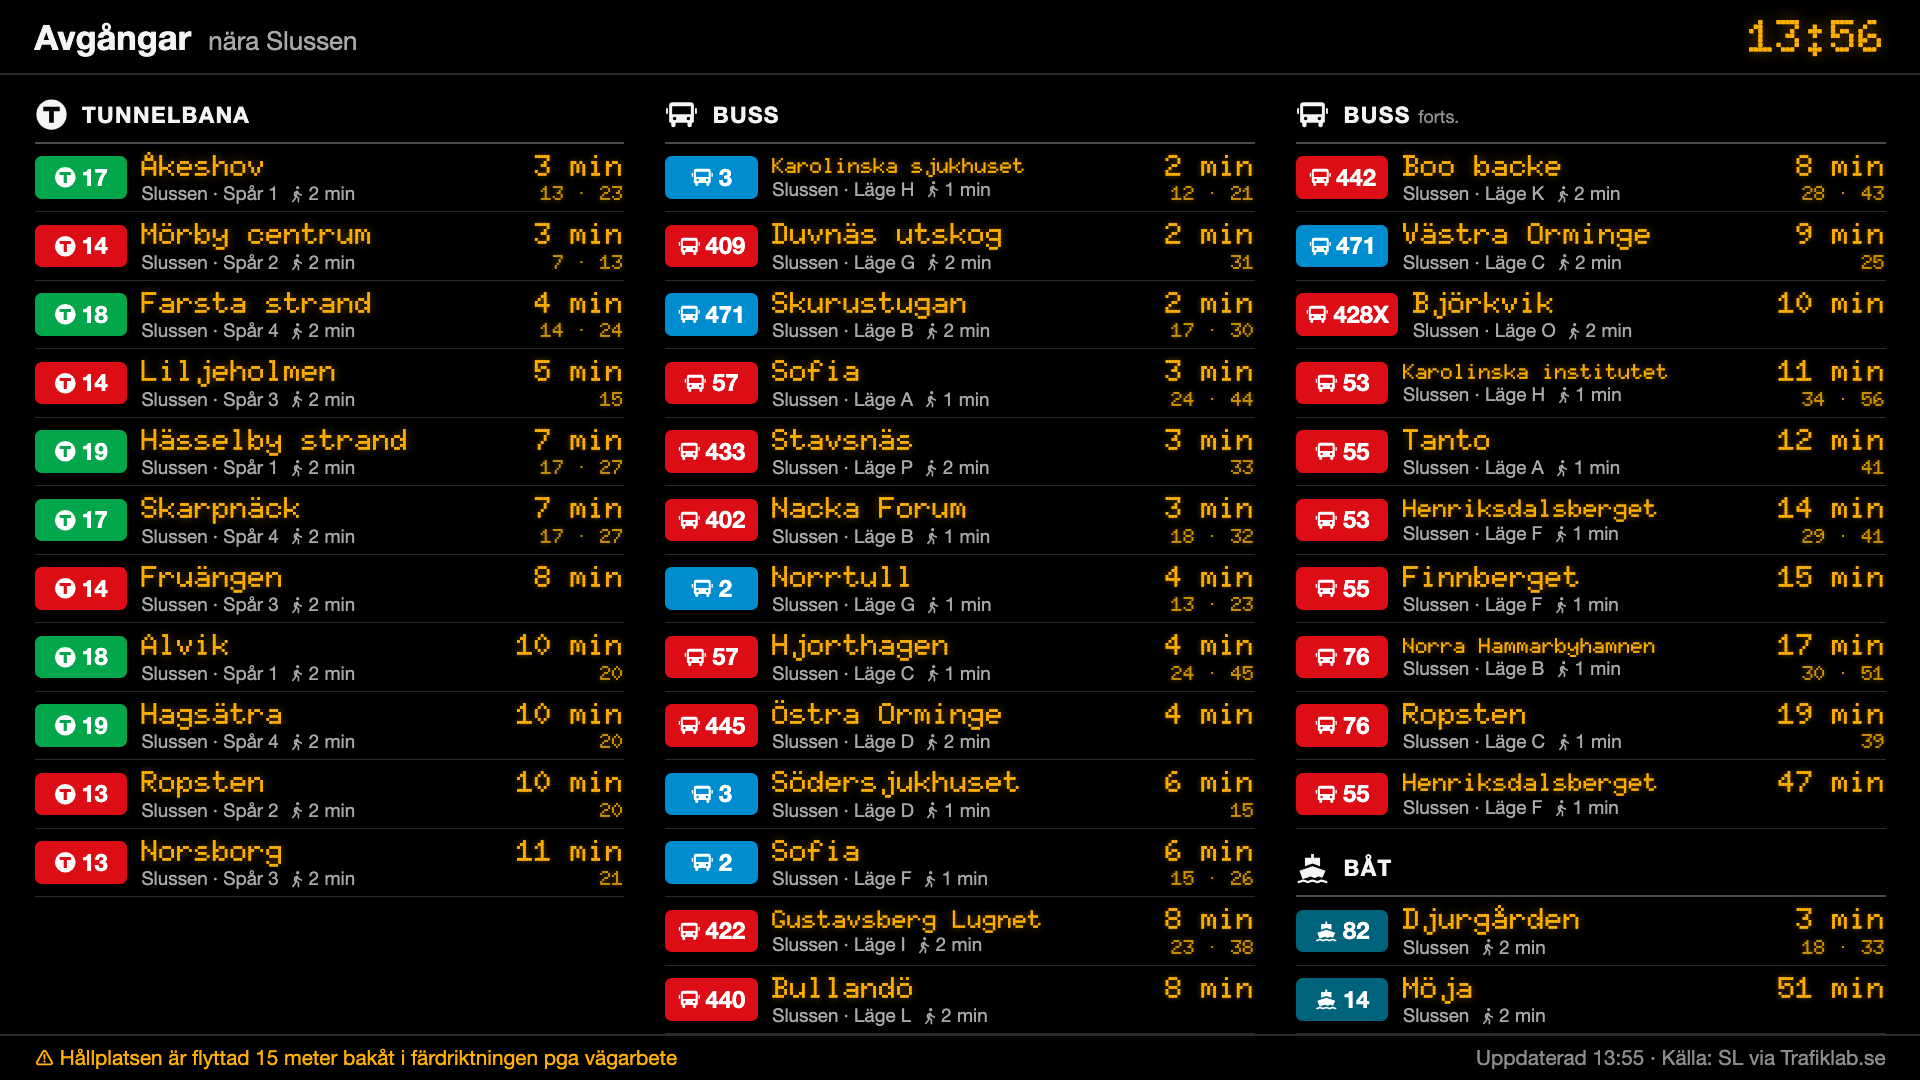
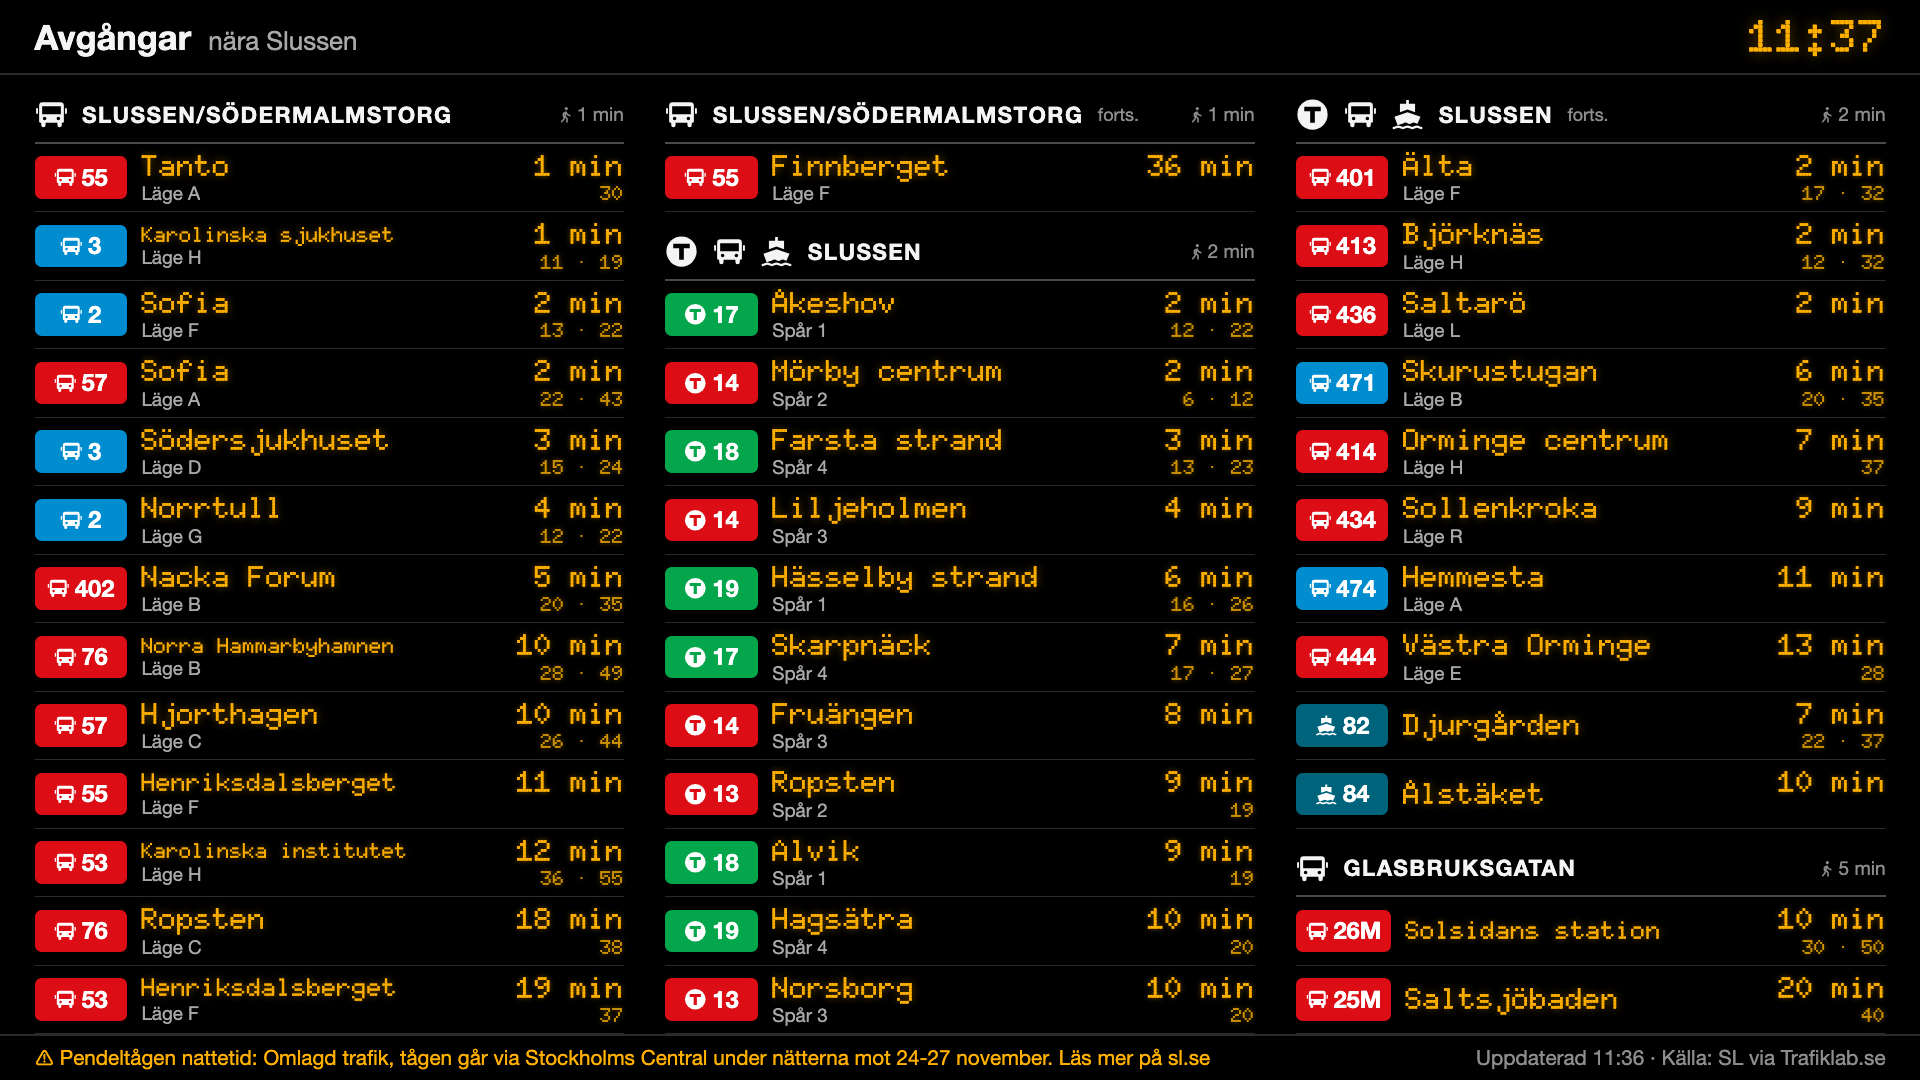
Group departures by stop by default
Each stop gets its own block, nearest first, with the stop name, the
transport types it serves and the walking time in the header, so rows
no longer repeat them. A new settings option, "Gruppera avgångar per
hållplats" (link parameter group=0 to turn it off), brings back the
layout grouped by transport type.

Sections are now identified by a key instead of the transport type, so
the column layout and sticky columns work for both groupings. Rows that
do not fit keep the section's own order when the farthest are dropped.

diff --git a/stockholm-transport/index.html b/stockholm-transport/index.html
@@ -48,7 +48,11 @@ body.idle { cursor: none; }
 .sec { color: var(--white); font-weight: 700; text-transform: uppercase; letter-spacing: .06em;
   font-size: calc(var(--row-h) * .34); border-bottom: 2px solid #4a4a4a; padding-top: calc(var(--row-h) * .2); }
 .sec svg { width: calc(var(--row-h) * .5); height: calc(var(--row-h) * .5); flex: none; --ic-cut: var(--bg); }
-.sec small { color: var(--grey); font-weight: 400; text-transform: none; letter-spacing: 0; font-size: .8em; }
+.sec .sn { min-width: 0; overflow: hidden; text-overflow: ellipsis; white-space: nowrap; }
+.sec .sw { flex: none; margin-left: auto; display: inline-flex; align-items: center; gap: .15em; color: var(--grey);
+  font-weight: 400; text-transform: none; letter-spacing: 0; font-size: .85em; }
+.sec .sw svg { width: .9em; height: .9em; }
+.sec small { flex: none; color: var(--grey); font-weight: 400; text-transform: none; letter-spacing: 0; font-size: .8em; }
 .row { border-bottom: 1px solid var(--line); }
 .badge { flex: none; display: inline-flex; align-items: center; justify-content: center; gap: .22em;
   min-width: calc(var(--row-h) * 1.4); height: calc(var(--row-h) * .64); padding: 0 .4em; border-radius: calc(var(--row-h) * .1);
@@ -183,6 +187,8 @@ body.idle .ctl { opacity: 0; pointer-events: none; }
   </div>
   <label class="opt" style="margin-top:8px"><input type="checkbox" id="fWalk"> <span data-t="walkOpt"></span></label>
   <div class="hint" data-t="walkHint" style="margin:0 0 6px 27px"></div>
+  <label class="opt"><input type="checkbox" id="fGroup"> <span data-t="groupOpt"></span></label>
+  <div class="hint" data-t="groupHint" style="margin:0 0 6px 27px"></div>
   <label class="opt"><input type="checkbox" id="fLed"> <span data-t="led"></span></label>
   <label class="opt"><input type="checkbox" id="fMsg"> <span data-t="showMsg"></span></label>
 
@@ -211,7 +217,7 @@ const REFRESH_MS = 30000;   // shortest refresh interval; grows with the number 
 const IDLE_POLL_MS = 5 * 60000;   // stops with nothing to show are asked less often
 const SITES_TTL = 24 * 3600 * 1000;
 const DEFAULTS = { lat: 59.3312, lon: 18.0592, name: 'T-Centralen', r: 500, hide: [], lang: 'sv',
-                   win: 60, walk: true, size: 'a', led: true, msg: true };
+                   win: 60, walk: true, size: 'a', led: true, msg: true, group: true };
 
 /* Line colours. Metro and commuter train follow the colours used on SL maps. */
 const COL = {
@@ -264,6 +270,7 @@ const T = {
     walkOpt: 'Dölj avgångar som man inte hinner gå till', walkHint: 'Gångtiden räknas från avståndet till hållplatsen.',
     textSize: 'Textstorlek', sizeA: 'Automatisk', sizeS: 'Liten', sizeM: 'Normal', sizeL: 'Stor', sizeX: 'Extra stor',
     led: 'Skylttypsnitt (punktmatris)', showMsg: 'Visa störningsinformation',
+    groupOpt: 'Gruppera avgångar per hållplats', groupHint: 'Varje hållplats får ett eget block, närmast först.',
     copyLink: 'Kopiera länk', copied: 'Länken är kopierad', done: 'Klar',
     linkHint: 'Länken innehåller plats och alla inställningar.',
     fullscreen: 'Helskärm (F)', openSettings: 'Inställningar (S)',
@@ -293,6 +300,7 @@ const T = {
     walkOpt: 'Hide departures you cannot walk to in time', walkHint: 'Walking time is estimated from the distance to the stop.',
     textSize: 'Text size', sizeA: 'Automatic', sizeS: 'Small', sizeM: 'Normal', sizeL: 'Large', sizeX: 'Extra large',
     led: 'Sign typeface (dot matrix)', showMsg: 'Show disruption messages',
+    groupOpt: 'Group departures by stop', groupHint: 'Each stop gets its own block, nearest first.',
     copyLink: 'Copy link', copied: 'Link copied', done: 'Done',
     linkHint: 'The link contains the location and all settings.',
     fullscreen: 'Full screen (F)', openSettings: 'Settings (S)',
@@ -338,7 +346,7 @@ function sanitize(s) {
   o.lang = o.lang === 'en' ? 'en' : 'sv';
   o.win = clamp(Math.round(+o.win) || DEFAULTS.win, 10, 240);
   o.size = ['a', 's', 'm', 'l', 'x'].includes(o.size) ? o.size : 'a';
-  o.walk = !!o.walk; o.led = !!o.led; o.msg = !!o.msg;
+  o.walk = !!o.walk; o.led = !!o.led; o.msg = !!o.msg; o.group = !!o.group;
   return o;
 }
 function loadStored() {
@@ -346,7 +354,7 @@ function loadStored() {
 }
 function readHash() {
   const p = new URLSearchParams(location.hash.replace(/^#!?/, ''));
-  const keys = ['lat', 'lon', 'name', 'addr', 'r', 'hide', 'show', 'lang', 'win', 'walk', 'size', 'led', 'msg'];
+  const keys = ['lat', 'lon', 'name', 'addr', 'r', 'hide', 'show', 'lang', 'win', 'walk', 'size', 'led', 'msg', 'group'];
   if (!keys.some(k => p.has(k))) return null;
   const o = {};
   if (p.has('lat') && p.has('lon')) { o.lat = +p.get('lat'); o.lon = +p.get('lon'); o.name = p.get('name') || coordName(o.lat, o.lon); }
@@ -356,7 +364,7 @@ function readHash() {
   if (p.has('show')) { const show = p.get('show').split(',').map(s => s.trim()); o.hide = MODES.filter(m => !show.includes(m)); }
   if (p.has('lang')) o.lang = p.get('lang');
   if (p.has('size')) o.size = p.get('size');
-  for (const k of ['walk', 'led', 'msg']) if (p.has(k)) o[k] = !/^(0|false|no|off)$/i.test(p.get(k));
+  for (const k of ['walk', 'led', 'msg', 'group']) if (p.has(k)) o[k] = !/^(0|false|no|off)$/i.test(p.get(k));
   return o;
 }
 function hashFor(c) {
@@ -370,6 +378,7 @@ function hashFor(c) {
   if (c.size !== DEFAULTS.size) p.set('size', c.size);
   if (!c.led) p.set('led', 0);
   if (!c.msg) p.set('msg', 0);
+  if (!c.group) p.set('group', 0);
   return '#' + p.toString().replace(/%2C/g, ',');
 }
 function initialConfig() {
@@ -499,7 +508,7 @@ function normalize(d, site) {
     dest: d.destination || '', stop: (d.stop_area && d.stop_area.name) || site.name,
     sp: (d.stop_point && d.stop_point.designation) || '', when,
     cancelled: d.state === 'CANCELLED' || (d.deviations || []).some(x => x.consequence === 'CANCELLED'),
-    dist: site.dist
+    dist: site.dist, place: site.name
   };
 }
 async function refresh() {
@@ -574,9 +583,27 @@ function buildSections(now) {
     g.sort = (g.live[0] || g.deps[0]).when;
   }
   rows.sort((a, b) => a.sort - b.sort || a.line.localeCompare(b.line, 'sv', { numeric: true }));
-  return MODES.map(mode => ({ mode, rows: rows.filter(r => r.mode === mode) })).filter(s => s.rows.length);
+  let list;
+  if (cfg.group) {
+    // One section per stop, nearest first, so the board shows where to walk to. Stops are matched by
+    // name, so a metro station and a bus stop that SL lists separately under one name share a section.
+    const byPlace = new Map();
+    for (const r of rows) {
+      let s = byPlace.get(r.place);
+      if (!s) byPlace.set(r.place, s = { key: 'p:' + r.place, place: r.place, dist: r.dist, modes: new Set(), rows: [] });
+      s.modes.add(r.mode); s.dist = Math.min(s.dist, r.dist); s.rows.push(r);
+    }
+    list = [...byPlace.values()].sort((a, b) => a.dist - b.dist || a.place.localeCompare(b.place, 'sv'));
+    for (const s of list) s.rows.sort((a, b) => MODES.indexOf(a.mode) - MODES.indexOf(b.mode) || a.sort - b.sort);
+  } else {
+    list = MODES.map(mode => ({ key: mode, mode, modes: new Set([mode]), rows: rows.filter(r => r.mode === mode) })).filter(s => s.rows.length);
+  }
+  list.forEach((s, i) => { s.rank = i; });
+  sectionsByKey = new Map(list.map(s => [s.key, s]));
+  return list;
 }
 
+let sectionsByKey = new Map();   // section key -> section, from the latest buildSections
 const walkMin = dist => Math.max(1, Math.ceil(dist / WALK_M_PER_MIN));
 
 function waterfill(counts, budget) {
@@ -601,13 +628,19 @@ function place(secs, alloc, C, R, tidy) {
     if (!n) continue;
     const left = R - used;
     if (used && (left < Math.min(3, n + 1) || (tidy && n + 1 > left && n + 1 <= R))) next();
-    cols[cols.length - 1].push({ head: secs[i].mode }); used++;
+    cols[cols.length - 1].push({ head: secs[i].key }); used++;
     for (let j = 0; j < alloc[i]; j++) {
-      if (used >= R) { next(); cols[cols.length - 1].push({ head: secs[i].mode, cont: true }); used++; }
+      if (used >= R) { next(); cols[cols.length - 1].push({ head: secs[i].key, cont: true }); used++; }
       cols[cols.length - 1].push({ row: secs[i].rows[j] }); used++;
     }
   }
   return cols.length <= C ? cols : null;
+}
+/* The n rows of a section to keep when it does not fit: those from the nearest stops, in the section's own order. */
+function keepRows(rows, n) {
+  if (n >= rows.length) return rows.slice();
+  const keep = new Set([...rows].sort((a, b) => a.dist - b.dist || a.sort - b.sort).slice(0, n));
+  return rows.filter(r => keep.has(r));
 }
 function layout(secs, C, R, tidy) {
   const counts = secs.map(s => s.rows.length);
@@ -616,8 +649,7 @@ function layout(secs, C, R, tidy) {
   for (let budget = Math.min(total, C * R) - secs.length; budget > 0; budget--) {
     const alloc = waterfill(counts, budget);
     const need = alloc.reduce((n, a) => n + (a ? a + 1 : 0), 0);
-    const kept = secs.map((s, i) => alloc[i] >= s.rows.length ? s : { mode: s.mode, rows:
-      [...s.rows].sort((a, b) => a.dist - b.dist || a.sort - b.sort).slice(0, alloc[i]).sort((a, b) => a.sort - b.sort) });
+    const kept = secs.map((s, i) => alloc[i] >= s.rows.length ? s : { ...s, rows: keepRows(s.rows, alloc[i]) });
     // Start from the shortest column height that could work, so columns fill evenly. With `tidy`,
     // a taller height that keeps every section in one column wins over a shorter one that splits one.
     let split = null;
@@ -634,28 +666,29 @@ function layout(secs, C, R, tidy) {
 /* Sticky columns. A fresh layout is worked out on every render, but the previous assignment of
    sections to columns is kept as long as it shows as many rows, so sections do not move to
    another column each time a line comes or goes. */
-let plan = null;   // { key, cols: [[mode, …], …], lossSince, untidySince }
+let plan = null;   // { key, cols: [[section key, …], …], lossSince, untidySince }
 const PLAN_LOSS_MS = 60000;        // rows hidden that a fresh layout would show
 const PLAN_UNTIDY_MS = 30000;      // an empty column or a split a fresh layout would avoid
 const rowCount = cols => cols.reduce((n, c) => n + c.filter(it => it.row).length, 0);
 const splitCount = cols => cols.reduce((n, c) => n + c.filter(it => it.cont).length, 0);
+const rankOf = key => sectionsByKey.has(key) ? sectionsByKey.get(key).rank : Infinity;
 function fromPlan(secs, planCols, R) {
   // A section that is not in the plan (boats at a pier that runs once an hour, say) goes into the
-  // column with the most room, in transport type order, rather than starting a fresh layout.
+  // column with the most room, in section order, rather than starting a fresh layout.
   // It is added to the plan, so it comes back to the same column next time.
-  const len = new Map(secs.map(s => [s.mode, s.rows.length + 1]));
+  const len = new Map(secs.map(s => [s.key, s.rows.length + 1]));
   for (const s of secs) {
-    if (planCols.some(c => c.includes(s.mode))) continue;
+    if (planCols.some(c => c.includes(s.key))) continue;
     const fill = planCols.map(c => c.reduce((n, m) => n + (len.get(m) || 0), 0));
     const ci = fill.indexOf(Math.min(...fill));
-    planCols[ci].push(s.mode);
-    planCols[ci].sort((a, b) => MODES.indexOf(a) - MODES.indexOf(b));
+    planCols[ci].push(s.key);
+    planCols[ci].sort((a, b) => rankOf(a) - rankOf(b));
   }
-  const rem = new Map(secs.map(s => [s.mode, s.rows.length]));
+  const rem = new Map(secs.map(s => [s.key, s.rows.length]));
   const take = planCols.map(() => []);
-  planCols.forEach((modes, ci) => {
+  planCols.forEach((keys, ci) => {
     let used = 0;
-    for (const m of modes) {
+    for (const m of keys) {
       if (!rem.get(m)) continue;
       const n = Math.min(rem.get(m), R - used - 1);
       if (n < 1) continue;
@@ -664,9 +697,8 @@ function fromPlan(secs, planCols, R) {
   });
   // Rows that do not fit: drop those from the farthest stops, as a fresh layout does.
   const kept = new Map(secs.map(s => {
-    const n = s.rows.length - rem.get(s.mode);
-    return [s.mode, n >= s.rows.length ? s.rows.slice()
-      : [...s.rows].sort((a, b) => a.dist - b.dist || a.sort - b.sort).slice(0, n).sort((a, b) => a.sort - b.sort)];
+    const n = s.rows.length - rem.get(s.key);
+    return [s.key, keepRows(s.rows, n)];
   }));
   const started = new Set();
   return take.map(parts => {
@@ -702,13 +734,24 @@ function fmtTime(when, now, short) {
   if (mins < 60) return short ? String(mins) : mins + ' ' + t('min');
   return hhmm(when);
 }
+function secHtml(it) {
+  const s = sectionsByKey.get(it.head);
+  if (!s) return '';
+  const cont = it.cont ? '<small>' + t('cont') + '</small>' : '';
+  if (!s.place) return '<div class="sec">' + ICON[s.mode] + '<span class="sn">' + t(s.mode) + '</span>' + cont + '</div>';
+  // The stop name may be cut short in a narrow column; "cont." and the walking time stay visible.
+  return '<div class="sec">' + MODES.filter(m => s.modes.has(m)).map(m => ICON[m]).join('') +
+    '<span class="sn">' + esc(s.place) + '</span>' + cont +
+    '<span class="sw" title="' + t('walk') + '">' + WALK_ICON + walkMin(s.dist) + ' min</span></div>';
+}
 function rowHtml(g, now) {
   const spLabel = g.sp ? (g.mode === 'bus' ? t('stand') : g.mode === 'boat' ? t('berth') : t('track')) + ' ' + g.sp : '';
   const firstLive = g.live[0];
   const lost = g.deps.filter(d => d.cancelled && (!firstLive || d.when < firstLive.when)).slice(0, 2);
-  const from = '<span class="fs">' + [esc(g.stop), esc(spLabel)].filter(Boolean).join(' · ') +
+  // Grouped by stop, the section header already names the stop and its walking time.
+  const from = '<span class="fs">' + [cfg.group ? '' : esc(g.stop), esc(spLabel)].filter(Boolean).join(' · ') +
     (firstLive && lost.length ? ' · <span class="cx">' + t('cancelled') + ' ' + lost.map(d => hhmm(d.when)).join(', ') + '</span>' : '') +
-    '</span><span class="fw" title="' + t('walk') + '">' + WALK_ICON + walkMin(g.dist) + ' min</span>';
+    '</span>' + (cfg.group ? '' : '<span class="fw" title="' + t('walk') + '">' + WALK_ICON + walkMin(g.dist) + ' min</span>');
   const t1 = firstLive ? '<div class="t1">' + fmtTime(firstLive.when, now) + '</div>' : '<div class="t1 cx">' + t('cancelled') + '</div>';
   const later = g.live.slice(1, 3);
   const t2 = later.map(d => fmtTime(d.when, now, true)).join(' · ');
@@ -737,7 +780,7 @@ function render() {
     // Largest size at which every row fits. A slightly smaller size is preferred if it keeps sections whole.
     const flow = AUTO_STEPS.find(f => fits(f, false)) || AUTO_STEPS[AUTO_STEPS.length - 1];
     const best = AUTO_STEPS.find(f => f <= flow && f >= flow - 0.11 && fits(f, true)) || flow;
-    const key = [W, H, cfg.lat, cfg.lon, cfg.r, cfg.win, cfg.walk, cfg.hide.join()].join('|');
+    const key = [W, H, cfg.lat, cfg.lon, cfg.r, cfg.win, cfg.walk, cfg.hide.join(), cfg.group].join('|');
     // Shrink at once when rows no longer fit; grow only after the larger size has fitted for a while,
     // so the text size, and with it the columns, do not change every time a departure comes or goes.
     if (!auto.scale || key !== auto.key || best < auto.scale || !sections.length) auto = { scale: best, key, since: 0 };
@@ -757,12 +800,12 @@ function render() {
   if (!loaded) html = '<div class="empty">' + t('loading') + '</div>';
   else if (sections.length) {
     const cols = narrow ? layout(sections, C, R, false)
-      : stickyLayout(sections, C, R, fits(scale, true), [W, H, C, R, rowH, cfg.lat, cfg.lon, cfg.r, cfg.hide.join()].join('|'));
+      : stickyLayout(sections, C, R, fits(scale, true), [W, H, C, R, rowH, cfg.lat, cfg.lon, cfg.r, cfg.hide.join(), cfg.group].join('|'));
     // Stretch the rows so the longest column fills the board height (type size stays the same).
     if (!narrow) slot = clamp(boardH / Math.max(1, ...cols.map(c => c.length)), rowH, rowH * 1.45);
     board.style.gridTemplateColumns = 'repeat(' + Math.min(C, Math.max(cols.length, narrow ? 1 : Math.min(C, 2))) + ', minmax(0, 1fr))';
     html = cols.map(col => '<div class="col">' + col.map(it => it.head
-      ? '<div class="sec">' + ICON[it.head] + '<span>' + t(it.head) + (it.cont ? ' <small>' + t('cont') + '</small>' : '') + '</span></div>'
+      ? secHtml(it)
       : rowHtml(it.row, now)).join('') + '</div>').join('');
   } else {
     board.style.gridTemplateColumns = '1fr';
@@ -802,7 +845,7 @@ function applyStatic() {
 function syncPanel() {
   $('fR').value = cfg.r; $('rVal').textContent = cfg.r + ' m';
   $('fWin').value = String(cfg.win); $('fWalk').checked = cfg.walk; $('fSize').value = cfg.size;
-  $('fLed').checked = cfg.led; $('fMsg').checked = cfg.msg;
+  $('fLed').checked = cfg.led; $('fMsg').checked = cfg.msg; $('fGroup').checked = cfg.group;
   document.querySelectorAll('input[name=lang]').forEach(el => { el.checked = el.value === cfg.lang; });
   $('fModes').querySelectorAll('input').forEach(el => { el.checked = !cfg.hide.includes(el.value); });
   $('placeNow').textContent = cfg.name + ' (' + coordName(cfg.lat, cfg.lon) + ')';
@@ -945,6 +988,7 @@ function buildPanel() {
   $('fSize').addEventListener('change', () => update({ size: $('fSize').value }));
   $('fLed').addEventListener('change', () => update({ led: $('fLed').checked }));
   $('fMsg').addEventListener('change', () => update({ msg: $('fMsg').checked }));
+  $('fGroup').addEventListener('change', () => update({ group: $('fGroup').checked }));
   document.querySelectorAll('input[name=lang]').forEach(el => el.addEventListener('change', () => update({ lang: el.value })));
   $('bCopy').addEventListener('click', async () => {
     persist();

diff --git a/README.md b/README.md
@@ -50,6 +50,7 @@ https://example.com/stockholm-transport/#lat=59.3196&lon=18.0722&name=Slussen&r=
 | `size` | Text size: `a` (automatic), `s`, `m`, `l` or `x` | `a` |
 | `led` | `0` switches from the dot-matrix typeface to a plain one | on |
 | `msg` | `0` hides disruption messages | on |
+| `group` | `0` groups departures by transport type instead of by stop | on |
 
 Keyboard: `S` opens settings, `F` toggles full screen.
 
@@ -69,6 +70,8 @@ Colours are set in the `COL` table in `index.html`. Metro lines use their line c
 
 ## Layout rules
 
+- Departures are grouped by stop, nearest first. Each stop's header shows its name, the transport types it serves and the walking time, so the rows only show line, destination, platform or stand, and times. Within a stop, departures are listed by transport type and then by time. Stops that SL lists separately under the same name, such as a metro station and a bus stop, share one block.
+- With "Gruppera avgångar per hållplats" turned off (`group=0`), departures are grouped by transport type instead, and each row shows its stop and walking time.
 - Automatic text size picks the largest size at which every row fits, and never goes below a size readable from a distance. If rows still do not fit, those from the farthest stops are dropped first. The text shrinks at once when rows no longer fit, but only grows after the larger size has fitted for three minutes.
 - A section is only split across two columns when there is no arrangement that keeps every section whole, even if that makes the columns taller.
 - Sections keep their columns between updates, once every stop in range has been asked for departures. The board is rearranged when a departure would stay hidden for more than a minute, when a tidier arrangement (no empty column, fewer split sections) has been possible for 30 seconds, or when the screen size, location or settings change.

diff --git a/CHANGELOG.md b/CHANGELOG.md
@@ -4,6 +4,10 @@ Changes to the Stockholm transport departure screen, newest first.
 
 ## 2026-11-26
 
+- Departures are now grouped by stop instead of by transport type. Each stop gets its own block, nearest first, with the stop name, the transport types it serves and the walking time in the header. This shows at a glance where to walk to, and removes the stop name and walking time that were repeated on every row. A metro station and a bus stop with the same name share one block.
+- Added "Gruppera avgångar per hållplats" ("Group departures by stop") to the settings panel, on by default. Turning it off, or adding `group=0` to the link, brings back the layout grouped by transport type. Screens that open a link without `group=0` switch to the new layout the next time they load the page.
+- "cont." on a section that continues in the next column now stays visible when the section name is too long for the column.
+- Updated the README screenshot to show the new layout.
 - "Följ min position" now stays on after a reload on iPhone. Safari reports location access as undecided after every reload, which greyed out the setting even while access was still allowed. The page now remembers that access was given on the device and asks for the position directly: Safari answers without a dialog while it still allows access, and shows its permission dialog again once it has forgotten. Declining the dialog turns following off.
 
 ## 2026-11-25
